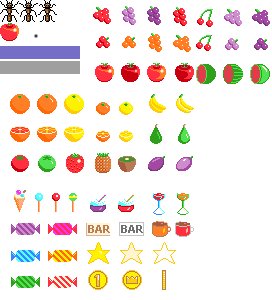
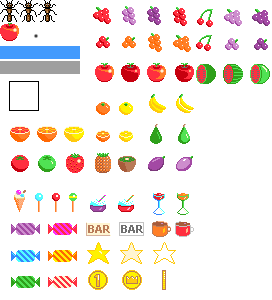
add AnthillSource and EnergyBar shaker

Changed region(s): [[0.0294, 0.27, 0.2059, 0.39], [0.0, 0.15, 0.2941, 0.21], [0.2353, 0.3, 0.3235, 0.39]]

diff --git a/core/src/ru/spbau/kaysin/ants/model/GameWorld.java b/core/src/ru/spbau/kaysin/ants/model/GameWorld.java
@@ -5,42 +5,53 @@ import com.badlogic.gdx.math.MathUtils;
 import com.badlogic.gdx.scenes.scene2d.Stage;
 
 import java.util.ArrayList;
-import java.util.Random;
 
 import ru.spbau.kaysin.ants.controls.DragTheAntListener;
+import ru.spbau.kaysin.ants.controls.TouchSourceListener;
 import ru.spbau.kaysin.ants.entities.Ant;
+import ru.spbau.kaysin.ants.entities.AnthillSource;
 import ru.spbau.kaysin.ants.entities.EnergyBar;
 
 public class GameWorld {
 
     ArrayList<Ant> ants;
-    private float energy;
+
+    private float energy = 0.9f;
     private float energyRecoverySpeed = 0.1f;
     private boolean activeRecovery = true;
     private EnergyBar energyBar;
+
+    private AnthillSource source;
+
     private Stage stage;
 
     public GameWorld(Stage stage) {
         this.stage = stage;
         stage.getRoot().setBounds(0, 0, stage.getWidth(), stage.getHeight());
 
-        // now the stage handle all the inputs
-        Gdx.input.setInputProcessor(stage);
+        source = new AnthillSource();
+        stage.addActor(source);
+        source.init();
+
 
         ants = new ArrayList<Ant>();
-        Random random = new Random();
-        for (int i = 0; i < 5; i++) {
-            Ant ant = new Ant(random.nextInt(Math.round(stage.getWidth())),
-                              random.nextInt(Math.round(stage.getHeight())));
-            ants.add(ant);
-            stage.addActor(ant);
-            ant.init();
-        }
-        stage.addListener(new DragTheAntListener(this));
 
         energyBar = new EnergyBar(this);
         stage.addActor(energyBar);
         energyBar.init();
+
+        // now the stage handle all the inputs
+        Gdx.input.setInputProcessor(stage);
+
+        stage.addListener(new DragTheAntListener(this));
+        stage.addListener(new TouchSourceListener(this));
+    }
+
+    public void addAnt(float x, float y) {
+        Ant ant = new Ant(x, y);
+        ants.add(ant);
+        stage.addActor(ant);
+        ant.init();
     }
 
     public void draw() {
@@ -51,6 +62,10 @@ public class GameWorld {
         stage.act(dt);
         if (activeRecovery) {
             setEnergy(energy + energyRecoverySpeed * dt);
+        }
+
+        if (energy == 0) {
+            energyBar.shake();
         }
     }
 
@@ -72,5 +87,13 @@ public class GameWorld {
 
     public void setActiveRecovery(boolean activeRecovery) {
         this.activeRecovery = activeRecovery;
+    }
+
+    public AnthillSource getSource() {
+        return source;
+    }
+
+    public void setSource(AnthillSource source) {
+        this.source = source;
     }
 }

diff --git a/core/src/ru/spbau/kaysin/ants/entities/EnergyBar.java b/core/src/ru/spbau/kaysin/ants/entities/EnergyBar.java
@@ -4,6 +4,7 @@ import com.badlogic.gdx.Gdx;
 import com.badlogic.gdx.graphics.g2d.Batch;
 import com.badlogic.gdx.graphics.g2d.NinePatch;
 import com.badlogic.gdx.graphics.g2d.TextureAtlas;
+import com.badlogic.gdx.math.MathUtils;
 import com.badlogic.gdx.scenes.scene2d.Actor;
 import com.badlogic.gdx.scenes.scene2d.utils.NinePatchDrawable;
 
@@ -15,10 +16,12 @@ import ru.spbau.kaysin.ants.model.GameWorld;
 
 public class EnergyBar extends Actor {
 
+    private static final float SHAKE_TIME = 0.1f;
     private GameWorld world;
-
     private NinePatchDrawable loadingBarBackground;
     private NinePatchDrawable loadingBar;
+    private float defaultX; // to shake the bar varying super.x
+    private float shakeTimer = 0;
 
     public EnergyBar(GameWorld world) {
         this.world = world;
@@ -34,11 +37,30 @@ public class EnergyBar extends Actor {
     public void init() {
         setPosition(20, 200);
         setSize(7, getParent().getHeight() - 2 * getY());
+        defaultX = getX();
     }
 
     @Override
     public void draw(Batch batch, float parentAlpha) {
         loadingBarBackground.draw(batch, getX(), getY(), getWidth() * getScaleX(), getHeight() * getScaleY());
         loadingBar.draw(batch, getX(), getY(), getWidth() * getScaleX(), world.getEnergy() * getHeight() * getScaleY());
+    }
+
+    @Override
+    public void act(float delta) {
+        super.act(delta);
+
+        if (shakeTimer < 0) {
+            shakeTimer = 0;
+        }
+
+        if (shakeTimer > 0) {
+            shakeTimer -= delta;
+            setX(defaultX + MathUtils.random(-1, 1));
+        }
+    }
+
+    public void shake() {
+        shakeTimer = SHAKE_TIME;
     }
 }

diff --git a/core/src/ru/spbau/kaysin/ants/entities/AnthillSource.java b/core/src/ru/spbau/kaysin/ants/entities/AnthillSource.java
@@ -1,0 +1,42 @@
+package ru.spbau.kaysin.ants.entities;
+
+import com.badlogic.gdx.graphics.g2d.Batch;
+import com.badlogic.gdx.graphics.g2d.Sprite;
+import com.badlogic.gdx.graphics.g2d.TextureAtlas;
+import com.badlogic.gdx.scenes.scene2d.Actor;
+import com.badlogic.gdx.scenes.scene2d.Touchable;
+import com.badlogic.gdx.utils.Align;
+
+import ru.spbau.kaysin.ants.Ants;
+
+/**
+ * Created by demarkok on 27-Nov-16.
+ */
+
+public class AnthillSource extends Actor {
+    private Sprite texture;
+
+    public AnthillSource() {
+        texture = new Sprite(Ants.getAssets().get("pack.txt", TextureAtlas.class).findRegion("source"));
+        setTouchable(Touchable.enabled);
+    }
+
+    public void init() {
+        setBounds(0, 0, texture.getWidth(), texture.getHeight());
+//        setBounds(100, 100, texture.getWidth(), texture.getHeight());
+        setOrigin(Align.center);
+        setScale(7);
+    }
+
+    @Override
+    public void draw(Batch batch, float parentAlpha) {
+//        batch.draw(texture, getX(), getY());
+        batch.draw(texture, getX(), getY(), getOriginX(), getOriginY(),
+                getWidth(), getHeight(), getScaleX(), getScaleY(), getRotation());
+    }
+
+    @Override
+    public Actor hit(float x, float y, boolean touchable) {
+        return super.hit(x, y, touchable);
+    }
+}

diff --git a/core/src/ru/spbau/kaysin/ants/controls/TouchSourceListener.java b/core/src/ru/spbau/kaysin/ants/controls/TouchSourceListener.java
@@ -1,32 +1,32 @@
 package ru.spbau.kaysin.ants.controls;
 
-import com.badlogic.gdx.physics.box2d.World;
 import com.badlogic.gdx.scenes.scene2d.Actor;
 import com.badlogic.gdx.scenes.scene2d.InputEvent;
 import com.badlogic.gdx.scenes.scene2d.utils.ClickListener;
 
-import ru.spbau.kaysin.ants.entities.Ant;
+import ru.spbau.kaysin.ants.entities.AnthillSource;
 import ru.spbau.kaysin.ants.model.GameWorld;
 
 /**
- * Created by demarkok on 25-Nov-16.
+ * Created by demarkok on 27-Nov-16.
  */
 
-public class ClickTheAntListener extends ClickListener {
+public class TouchSourceListener extends ClickListener {
     private GameWorld world;
 
-    public ClickTheAntListener(GameWorld world) {
+    public TouchSourceListener(GameWorld world) {
         this.world = world;
     }
 
     @Override
     public boolean touchDown(InputEvent event, float x, float y, int pointer, int button) {
         Actor actor = world.getStage().hit(x, y, true);
-        if (actor instanceof Ant) {
-            System.out.println(":)");
+        if (actor instanceof AnthillSource) {
+            world.addAnt(x, y);
         } else {
-            System.out.println(":(");
+//            world.addAnt(x, y);
         }
         return super.touchDown(event, x, y, pointer, button);
     }
 }
+

diff --git a/core/src/ru/spbau/kaysin/ants/controls/DragTheAntListener.java b/core/src/ru/spbau/kaysin/ants/controls/DragTheAntListener.java
@@ -53,8 +53,8 @@ public class DragTheAntListener extends DragListener {
         Vector2 newPoint = new Vector2(x, y);
         if (pathToFollow.size > 0) {
             float segmentLen = newPoint.dst(pathToFollow.get(pathToFollow.size - 1));
-            //TODO make 0.0005 Ant's field
-            world.setEnergy(world.getEnergy() - 0.0005f * segmentLen);
+            //TODO make 0.001 Ant's field
+            world.setEnergy(world.getEnergy() - 0.001f * segmentLen);
         }
         pathToFollow.add(newPoint);
         ant.getAntWay().pushPoint(newPoint);

diff --git a/core/src/ru/spbau/kaysin/ants/view/WorldRenderer.java b/core/src/ru/spbau/kaysin/ants/view/WorldRenderer.java
@@ -36,7 +36,7 @@ public class WorldRenderer {
     }
 
     public void render() {
-        Gdx.gl.glClearColor(176 / 255f, 196 / 248f, 200 / 222f, 1);
+        Gdx.gl.glClearColor(189 / 255f, 194 / 248f, 155 / 222f, 1);
         Gdx.gl.glClear(GL20.GL_COLOR_BUFFER_BIT);
 
         gameWorld.draw();

diff --git a/core/src/ru/spbau/kaysin/ants/entities/Ant.java b/core/src/ru/spbau/kaysin/ants/entities/Ant.java
@@ -29,7 +29,6 @@ public class Ant extends SteeringActor {
         animFrame = animation.getKeyFrame(animTime);
 
         setBounds(x, y, animFrame.getRegionWidth(), animFrame.getRegionHeight());
-        setPosition(x, y);
         setOrigin(Align.center);
         setScale(2);
 
